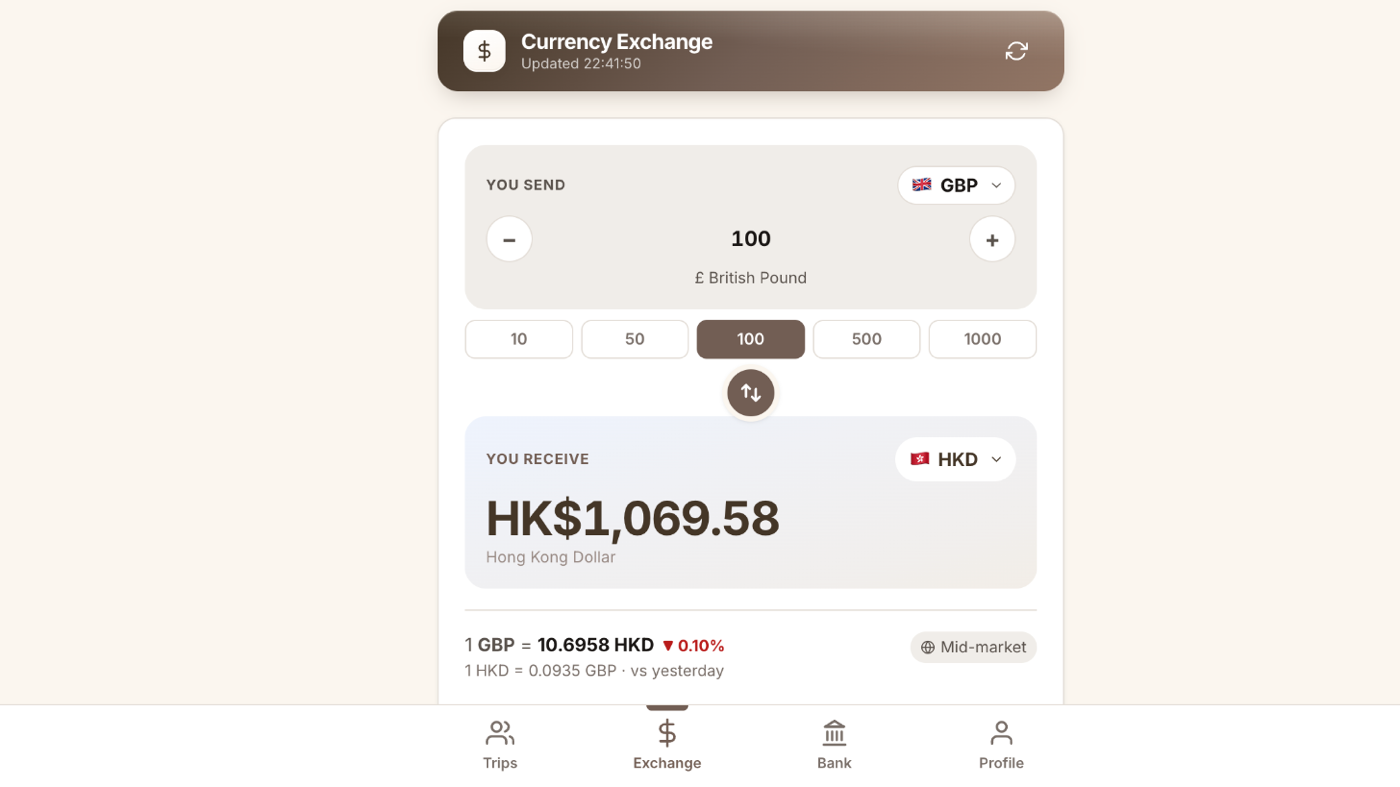
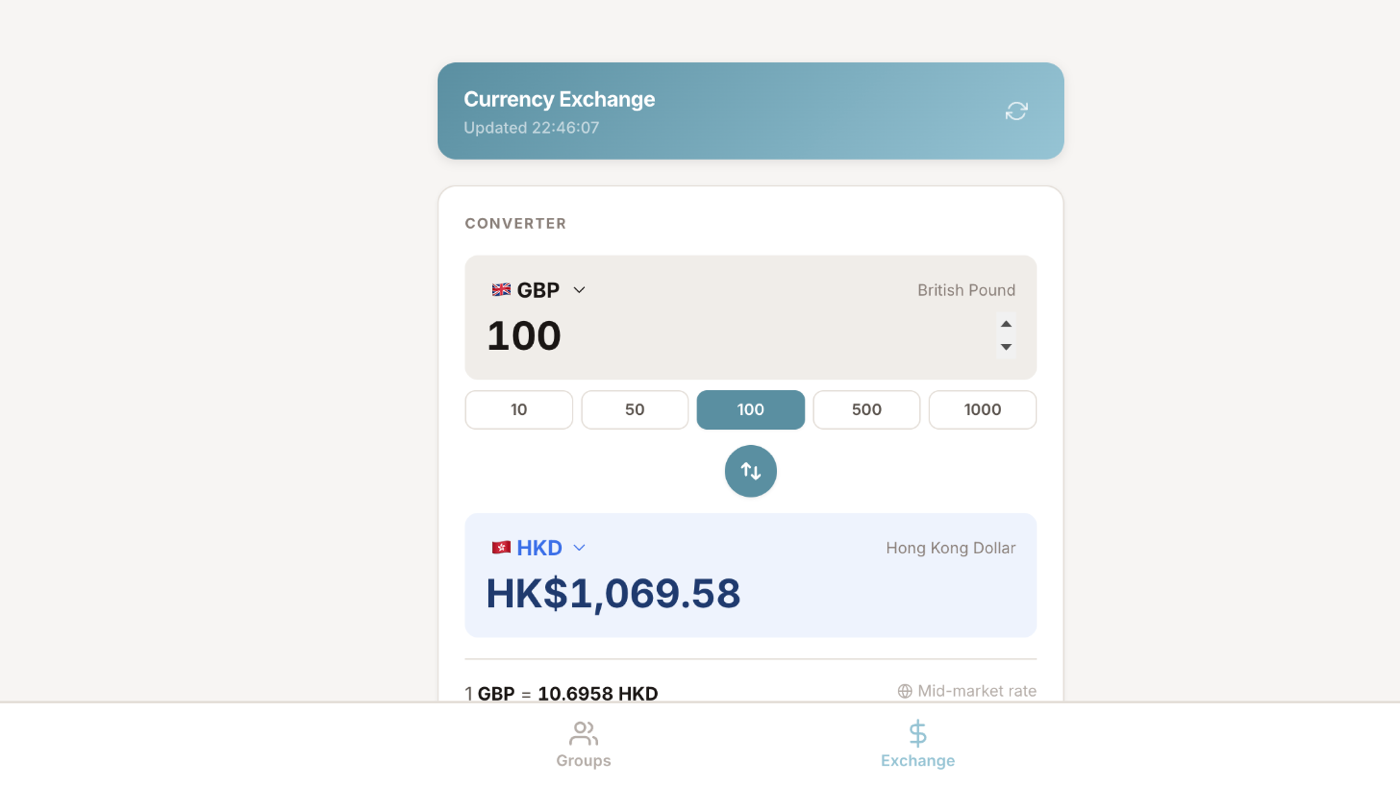
Switch SplitEasy to the blue build and reshoot its screens
Vivien picked the blue theme, which lives in the Project Hub workspace copy
rather than the git-tracked app. That copy is the older two-tab build
(Groups + Exchange) with four recoloured brand tokens, so the case study
loses the Bank figure entirely — the blue build has no Plaid tab.

Screens are now Groups (hero), Balances with the suggested settle-up, and
Exchange. Balances replaces Bank because it is the screen that actually shows
the claim the copy makes: three debts reduced to two payments. Files renamed
from -trips to -groups to match what the build calls them; -bank is removed.

Claude-Session: https://claude.ai/code/session_015bjTA8P8fznaf52vAynPAC

diff --git a/index.html b/index.html
@@ -957,7 +957,7 @@ a { color: var(--ink); text-underline-offset: 3px; }
           </article>
 
           <article class="lab-card">
-            <div class="lab-media"><img src="assets/img/cs/lab-spliteasy-trips.png" alt="SplitEasy trips screen showing a Paris trip with three members and the outstanding balance"></div>
+            <div class="lab-media"><img src="assets/img/cs/lab-spliteasy-groups.png" alt="SplitEasy groups screen in blue and teal, showing a Paris trip with three members and the outstanding balance"></div>
             <div class="lab-body">
               <div class="lab-head"><h3>SplitEasy</h3><span class="badge"><span class="dot" aria-hidden="true"></span>Single file</span></div>
               <p>Splitwise-style expense splitter — multi-currency trips and a settle-up algorithm that reduces who-owes-who to the fewest transfers.</p>
@@ -1689,7 +1689,7 @@ a { color: var(--ink); text-underline-offset: 3px; }
 
     <dl class="dialog-meta"><div><dt>Stack</dt><dd>React 18 + Babel Standalone in one HTML file</dd></div><div><dt>Runs at</dt><dd>Open the file — no server</dd></div><div><dt>Repo</dt><dd>Public</dd></div></dl>
 
-    <img class="dialog-hero" src="assets/img/cs/lab-spliteasy-trips.png" alt="">
+    <img class="dialog-hero" src="assets/img/cs/lab-spliteasy-groups.png" alt="">
 
     <h3>Background</h3>
     <p>Splitting a trip properly: several people, several currencies, and a final answer that is the shortest list of payments rather than a wall of balances.</p>
@@ -1698,7 +1698,7 @@ a { color: var(--ink); text-underline-offset: 3px; }
     <ul class="dialog-list"><li><strong>Fewest transfers</strong> — balances are settled by repeatedly matching the largest creditor against the largest debtor, so three people owing each other collapse into one or two payments.</li><li><strong>One base currency</strong> — expenses are entered in whatever was actually paid and converted through live rates, falling back to bundled rates offline.</li><li><strong>Splits must balance</strong> — the submit button stays disabled until the shares add up to the total.</li></ul>
 
     <h3>Screens</h3>
-    <figure class="dialog-figure"><img src="assets/img/cs/lab-spliteasy-exchange.png" alt="Exchange — live rates across 20 currencies"><figcaption>Exchange — live rates across 20 currencies</figcaption></figure><figure class="dialog-figure"><img src="assets/img/cs/lab-spliteasy-bank.png" alt="Bank — Plaid link in sandbox, before any account is connected"><figcaption>Bank — Plaid link in sandbox, before any account is connected</figcaption></figure>
+    <figure class="dialog-figure"><img src="assets/img/cs/lab-spliteasy-balances.png" alt="Balances tab showing what each member gets back or owes, above a suggested-payments list reducing the debts to two transfers"><figcaption>Balances, and the settle-up reduced to the fewest payments</figcaption></figure><figure class="dialog-figure"><img src="assets/img/cs/lab-spliteasy-exchange.png" alt="Exchange — live rates across 20 currencies"><figcaption>Exchange — live rates across 20 currencies</figcaption></figure>
     <div class="lab-links" style="margin-top:var(--s-3)"><a class="lab-link secondary" href="https://github.com/aibotvivi/spliteasy" target="_blank" rel="noopener noreferrer"><svg viewBox="0 0 16 16" width="15" height="15" fill="currentColor" aria-hidden="true"><path d="M8 0C3.58 0 0 3.58 0 8c0 3.54 2.29 6.53 5.47 7.59.4.07.55-.17.55-.38 0-.19-.01-.82-.01-1.49-2.01.37-2.53-.49-2.69-.94-.09-.23-.48-.94-.82-1.13-.28-.15-.68-.52-.01-.53.63-.01 1.08.58 1.23.82.72 1.21 1.87.87 2.33.66.07-.52.28-.87.51-1.07-1.78-.2-3.64-.89-3.64-3.95 0-.87.31-1.59.82-2.15-.08-.2-.36-1.02.08-2.12 0 0 .67-.21 2.2.82.64-.18 1.32-.27 2-.27s1.36.09 2 .27c1.53-1.04 2.2-.82 2.2-.82.44 1.1.16 1.92.08 2.12.51.56.82 1.27.82 2.15 0 3.07-1.87 3.75-3.65 3.95.29.25.54.73.54 1.48 0 1.07-.01 1.93-.01 2.2 0 .21.15.46.55.38A8.01 8.01 0 0 0 16 8c0-4.42-3.58-8-8-8Z"/></svg> GitHub</a></div>
   </div>
 </dialog>
